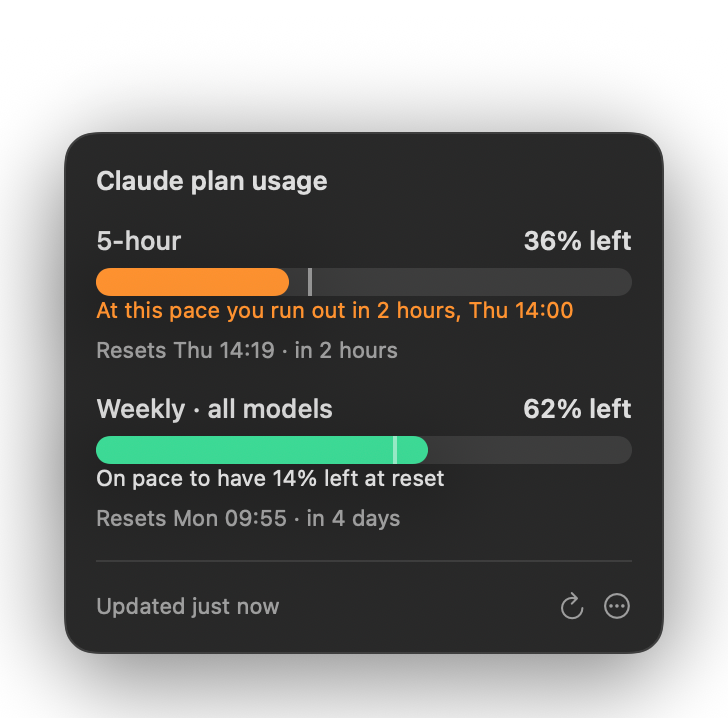
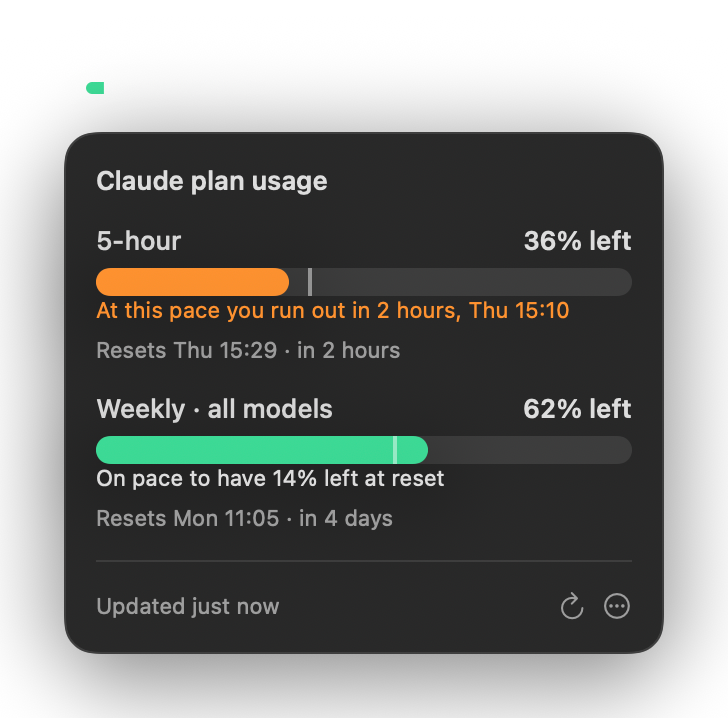
Colour the menu bar glyph by pace

diff --git a/QuotaBar.swift b/QuotaBar.swift
@@ -23,6 +23,23 @@ struct Limit: Identifiable, Sendable, Codable {
         guard rate(now) > 0, projected(now) >= 100 else { return nil }
         return now + (100 - used) / rate(now)
     }
+
+    enum Pace {
+        case onPace, ahead, critical
+        var color: Color {
+            switch self {
+            case .onPace: .quotaMint
+            case .ahead: .orange
+            case .critical: .red
+            }
+        }
+    }
+
+    /// Shared by the panel rows and the menu bar glyph.
+    func pace(_ now: Date) -> Pace {
+        if used >= 90 { return .critical }
+        return runsOut(now) != nil ? .ahead : .onPace
+    }
 }
 
 enum FetchError: Error {
@@ -377,10 +394,7 @@ struct LimitRow: View {
 
     private var runsOut: Date? { limit.runsOut(now) }
     private var left: Double { max(100 - limit.used, 0) }
-    private var tint: Color {
-        if limit.used >= 90 { return .red }
-        return runsOut != nil ? .orange : .quotaMint
-    }
+    private var tint: Color { limit.pace(now).color }
 
     var body: some View {
         VStack(alignment: .leading, spacing: 6) {
@@ -488,15 +502,19 @@ extension Color {
 /// The QuotaBar mark as a live menu bar glyph: a track, a fill and an even-pace tick.
 /// Template image, so macOS tints it for light, dark and highlighted menu bars.
 enum MenuGlyph {
-    static func image(fill: Double, tick: Double?) -> NSImage {
+    /// With `tint`, the fill is coloured by pace and the track and tick use the menu bar's
+    /// own label colour (resolved at draw time, so light and dark bars both work).
+    /// Without it, the whole glyph is a template image.
+    static func image(fill: Double, tick: Double?, tint: NSColor? = nil) -> NSImage {
         let img = NSImage(size: NSSize(width: 22, height: 14), flipped: false) { rect in
+            let ink = tint == nil ? NSColor.black : NSColor.labelColor
             let th: CGFloat = 6, w = rect.width - 2, x0: CGFloat = 1
             let y = (rect.height - th) / 2
-            NSColor.black.withAlphaComponent(0.32).setFill()
+            ink.withAlphaComponent(0.35).setFill()
             NSBezierPath(roundedRect: NSRect(x: x0, y: y, width: w, height: th), xRadius: th / 2, yRadius: th / 2).fill()
             let f = min(max(fill, 0), 1)
             if f > 0 {
-                NSColor.black.setFill()
+                (tint ?? ink).setFill()
                 NSBezierPath(roundedRect: NSRect(x: x0, y: y, width: max(w * f, th), height: th),
                              xRadius: th / 2, yRadius: th / 2).fill()
             }
@@ -506,13 +524,13 @@ enum MenuGlyph {
                 NSBezierPath(roundedRect: NSRect(x: x - 2.25, y: 0, width: 4.5, height: rect.height),
                              xRadius: 2.25, yRadius: 2.25).fill()
                 NSGraphicsContext.current?.compositingOperation = .sourceOver
-                NSColor.black.setFill()
+                ink.setFill()
                 NSBezierPath(roundedRect: NSRect(x: x - 1, y: 1, width: 2, height: rect.height - 2),
                              xRadius: 1, yRadius: 1).fill()
             }
             return true
         }
-        img.isTemplate = true
+        img.isTemplate = tint == nil
         return img
     }
 }
@@ -523,10 +541,12 @@ struct MenuLabel: View {
 
     var body: some View {
         if let h = store.headline {
-            let elapsed = h.elapsed(Date())
+            let now = Date()
+            let elapsed = h.elapsed(now)
+            let tint = NSColor(h.pace(now).color)
             Image(nsImage: showRemaining
-                  ? MenuGlyph.image(fill: (100 - h.used) / 100, tick: 1 - elapsed)
-                  : MenuGlyph.image(fill: h.used / 100, tick: elapsed))
+                  ? MenuGlyph.image(fill: (100 - h.used) / 100, tick: 1 - elapsed, tint: tint)
+                  : MenuGlyph.image(fill: h.used / 100, tick: elapsed, tint: tint))
             Text(showRemaining ? "\(Int(max(100 - h.used, 0).rounded()))% left" : "\(Int(h.used.rounded()))%")
         } else {
             Image(nsImage: MenuGlyph.image(fill: 0, tick: nil))

diff --git a/branding/Brand.swift b/branding/Brand.swift
@@ -119,15 +119,23 @@ enum Demo {
 
 struct MenuBarPill: View {
     let text: String
+    var dark = true
+
     var body: some View {
+        // The glyph's track and tick use the drawing appearance, so draw it under the matching one.
+        let glyph = MenuGlyph.image(fill: 0.62, tick: 0.56, tint: NSColor(Limit.Pace.onPace.color))
+        let rendered = NSImage(size: glyph.size, flipped: false) { rect in
+            NSAppearance(named: dark ? .darkAqua : .aqua)!.performAsCurrentDrawingAppearance { glyph.draw(in: rect) }
+            return true
+        }
         HStack(spacing: 6) {
-            Image(nsImage: MenuGlyph.image(fill: 0.62, tick: 0.56)).renderingMode(.template)
+            Image(nsImage: rendered)
             Text(text).font(.system(size: 13, weight: .medium)).monospacedDigit()
         }
-        .foregroundStyle(.white)
+        .foregroundStyle(dark ? .white : .black)
         .padding(.horizontal, 10)
         .padding(.vertical, 4)
-        .background(Capsule().fill(.white.opacity(0.14)))
+        .background(Capsule().fill(dark ? .white.opacity(0.14) : .black.opacity(0.07)))
     }
 }
 
@@ -166,10 +174,7 @@ struct ReadmeShot: View {
     let dark: Bool
     var body: some View {
         VStack(alignment: .leading, spacing: 10) {
-            MenuBarPill(text: "62% left")
-                .foregroundStyle(dark ? .white : .black)
-                .environment(\.colorScheme, dark ? .dark : .light)
-                .colorMultiply(dark ? .white : .black)
+            MenuBarPill(text: "62% left", dark: dark)
             PanelShot(dark: dark)
                 .shadow(color: .black.opacity(dark ? 0.5 : 0.18), radius: 24, y: 10)
         }

diff --git a/README.md b/README.md
@@ -45,7 +45,8 @@ Each limit gets one bar. By default it shows **what's left**, draining like a fu
 - **Fill short of the tick** (orange): you're ahead of pace. It shows when you'd run out.
 - **Red**: 90% or more used.
 
-The menu bar glyph is the same bar, live, for whichever limit is closest to running out.
+The menu bar glyph is the same bar, live and in the same colours, for whichever limit is
+closest to running out.
 Switch to showing usage instead under `⋯` → **Show remaining**.
 
 Accounts without a 5-hour limit show their weekly limits only.
